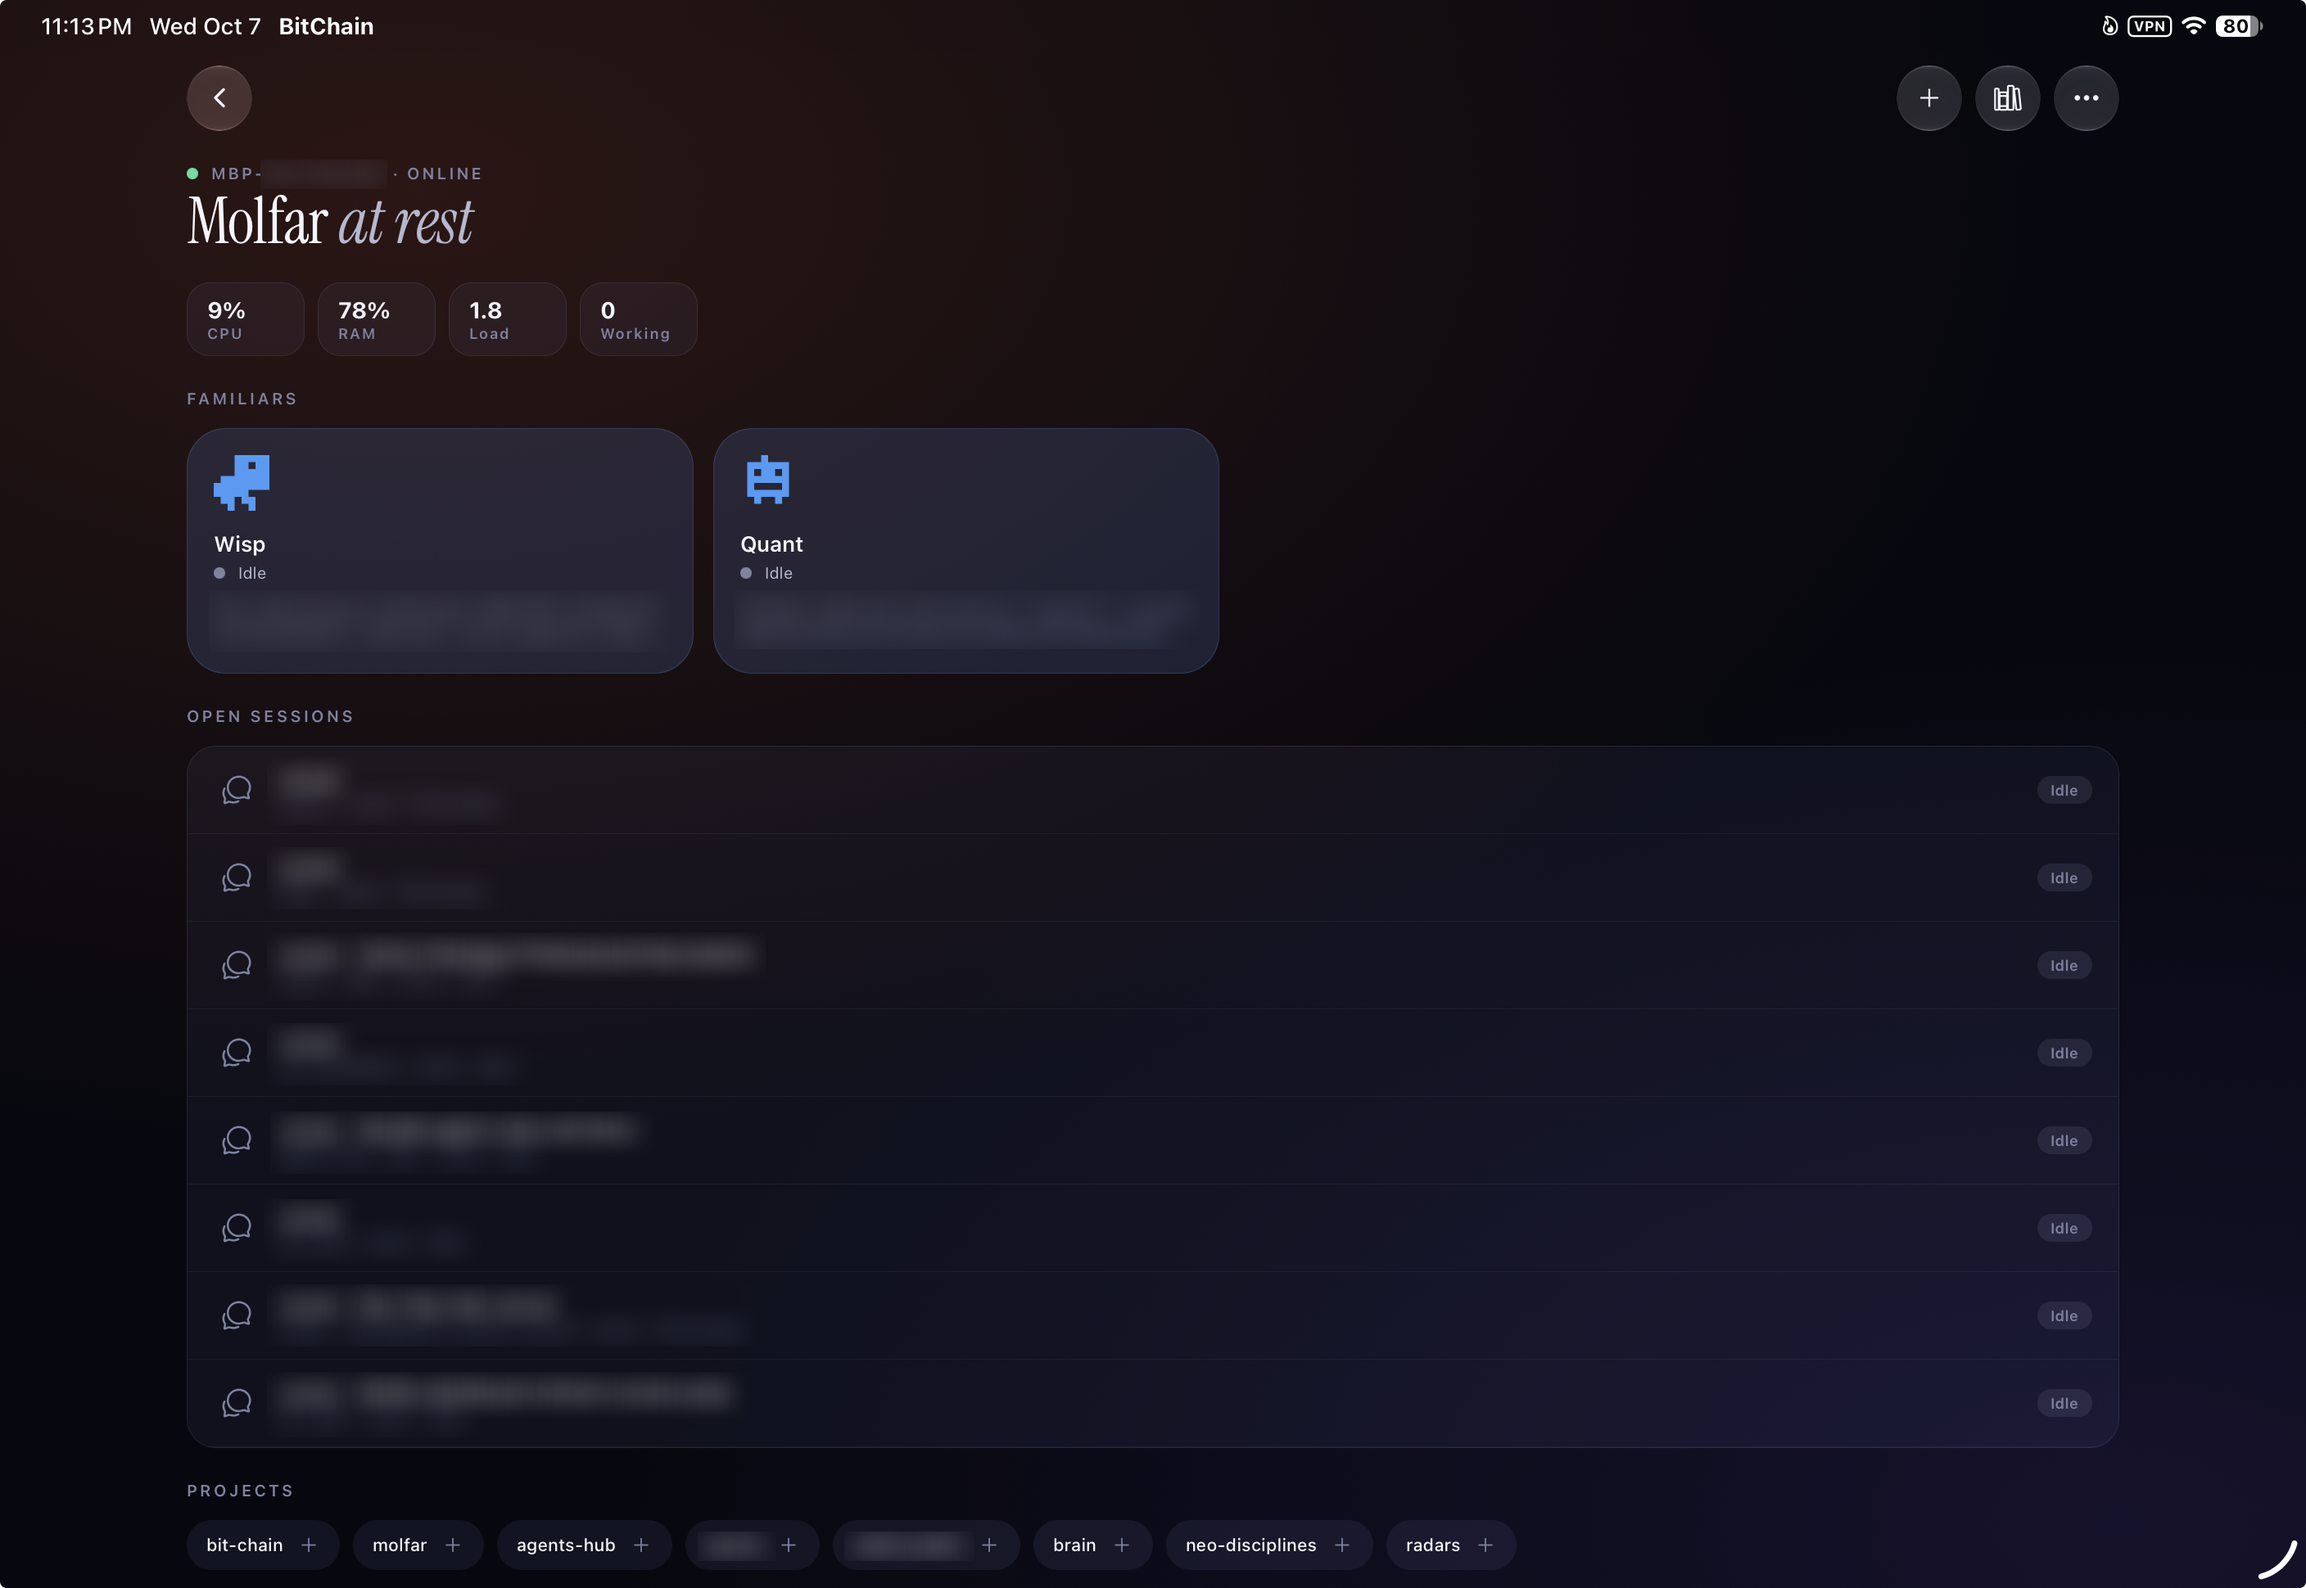
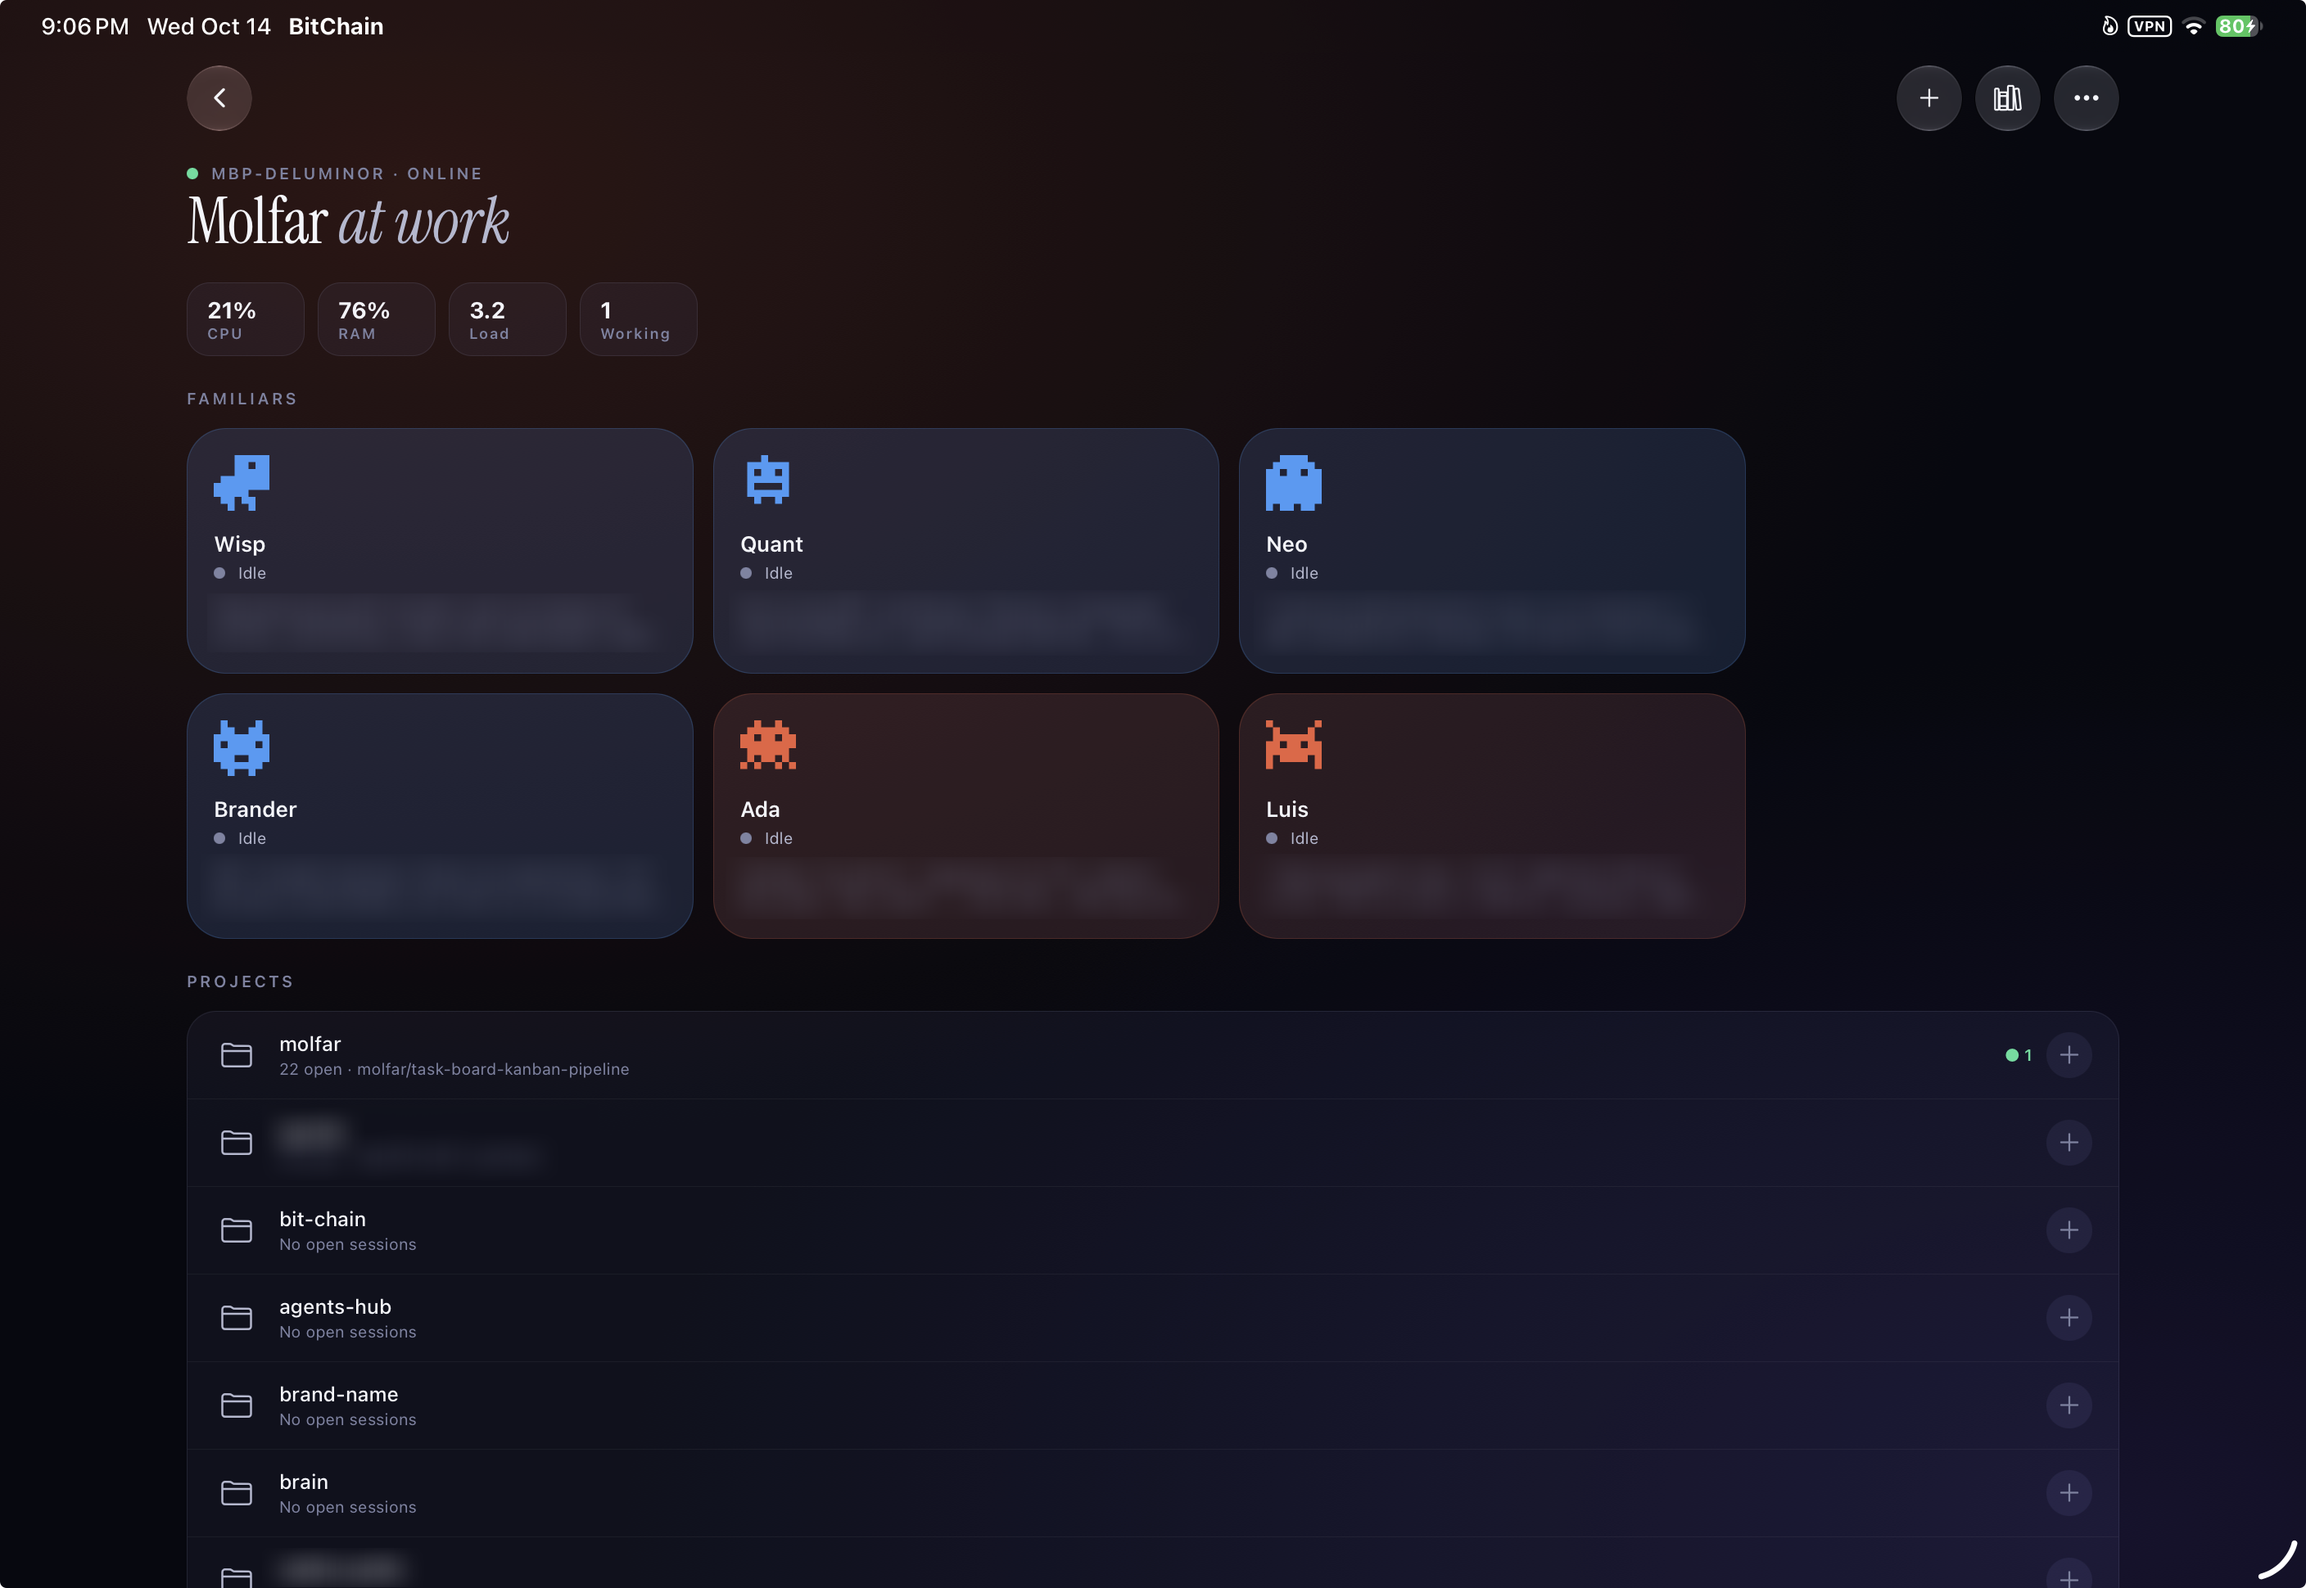
docs(readme): add second iPad companion screenshot
- Add ipad-blurred2.png and show it below the existing iPad screenshot
- Move the iPhone screenshot above the iPad screenshots
- Replace phone.jpg and ipad-blurred.png with updated images

diff --git a/README.md b/README.md
@@ -157,9 +157,11 @@ Project-scoped Markdown notes for decisions, checklists, and context worth reusi
 
 Pair a phone or tablet through the **Molfar** module in BitChain and steer the desktop while it is awake: Familiars and open sessions, approvals and clarifying questions, new sessions, notes, and read-only Knowledge. Traffic stays on the tailnet — Tailscale Serve terminates HTTPS and forwards only to loopback on the laptop. Details and pairing steps: [docs/companion.md](docs/companion.md).
 
+![Molfar companion on iPhone — overview with Familiars and host stats beside a session transcript with photo and dictation composer](docs/architecture/images/phone.jpg)
+
 ![Molfar companion on iPad — laptop online, host metrics, Familiars, open sessions, and project rail](docs/architecture/images/ipad-blurred.png)
 
-![Molfar companion on iPhone — overview with Familiars and host stats beside a session transcript with photo and dictation composer](docs/architecture/images/phone.jpg)
+![Molfar companion on iPad — laptop online, host metrics, Familiars, open sessions, and project rail](docs/architecture/images/ipad-blurred2.png)
 
 ### Orchestration and `/operator`
 
